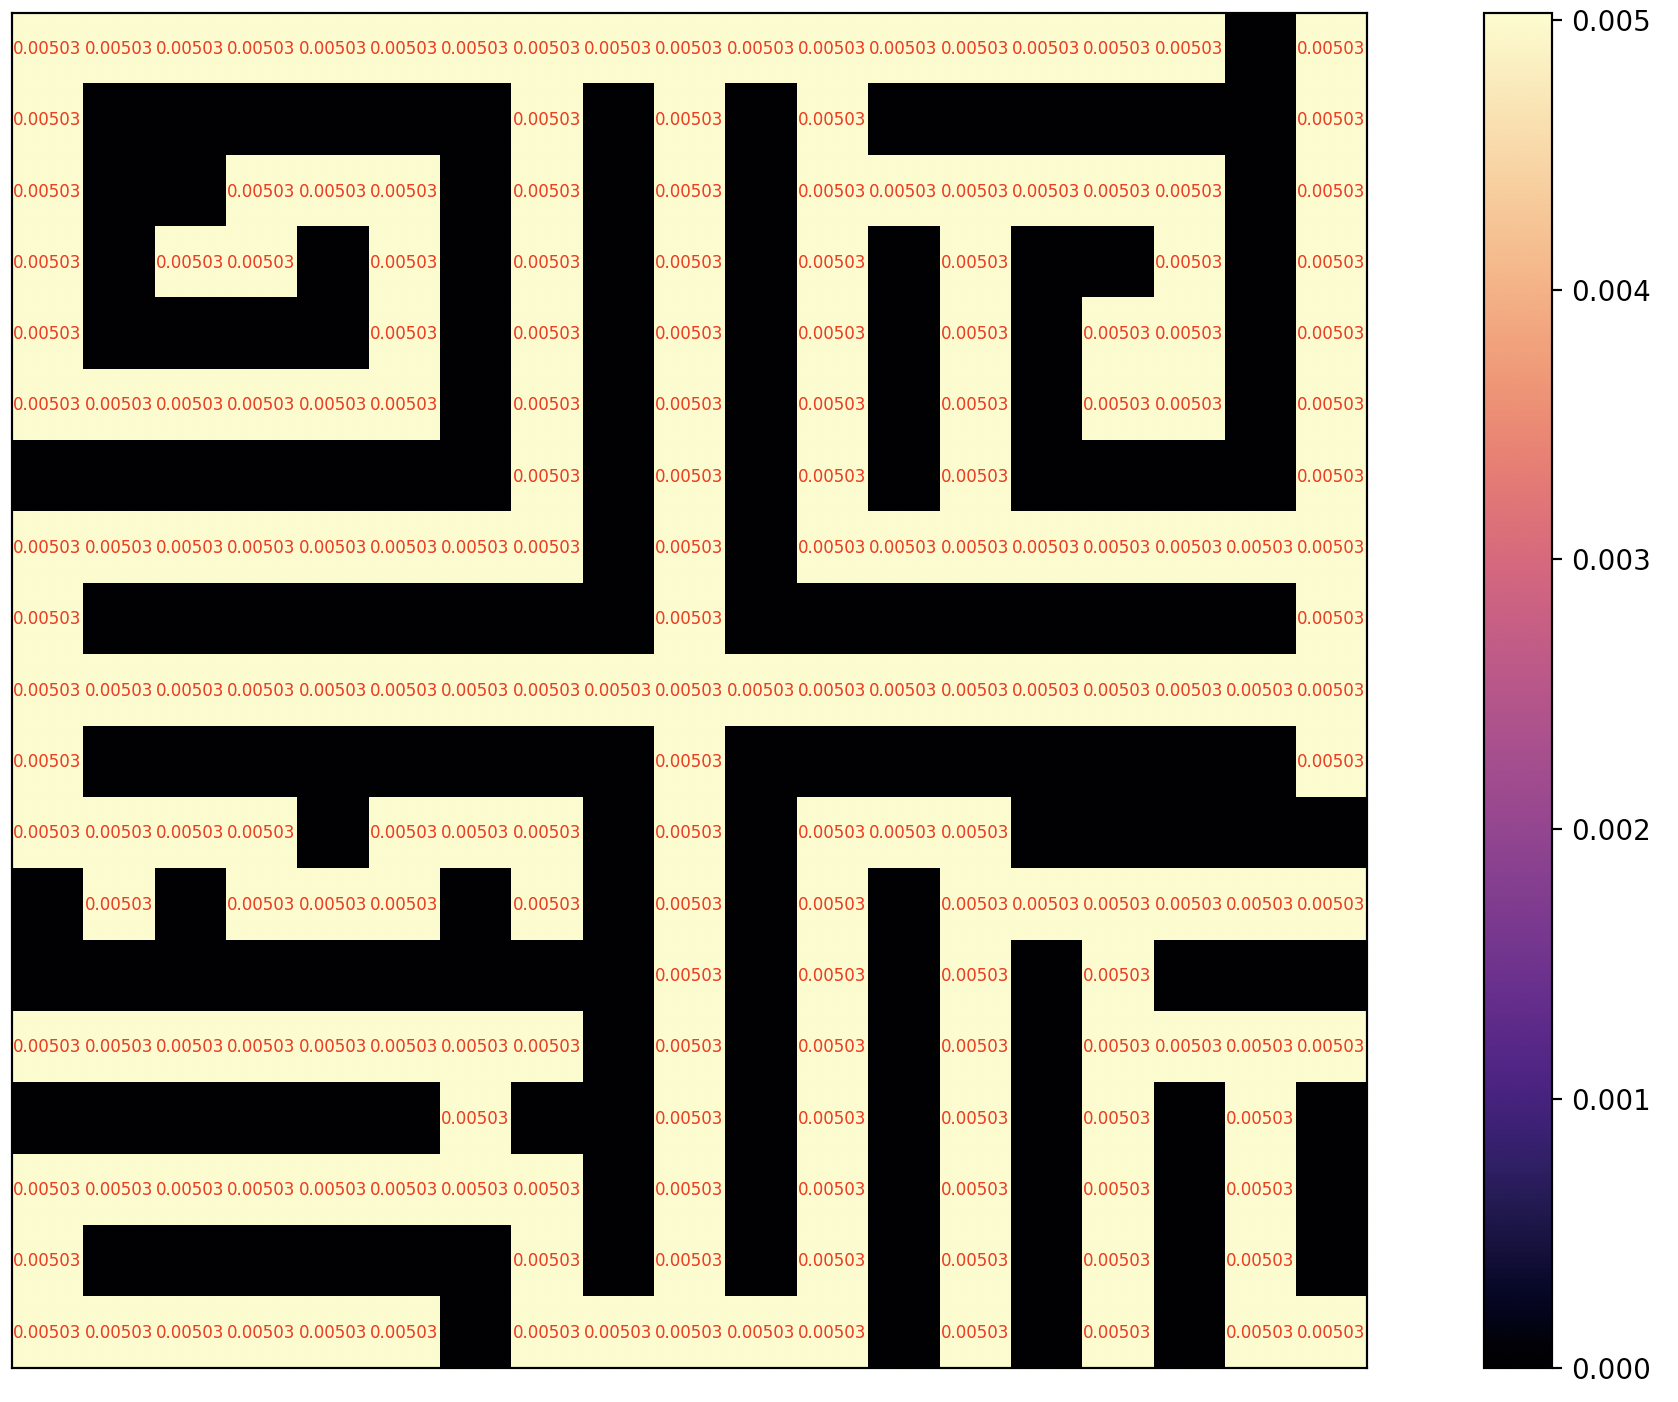
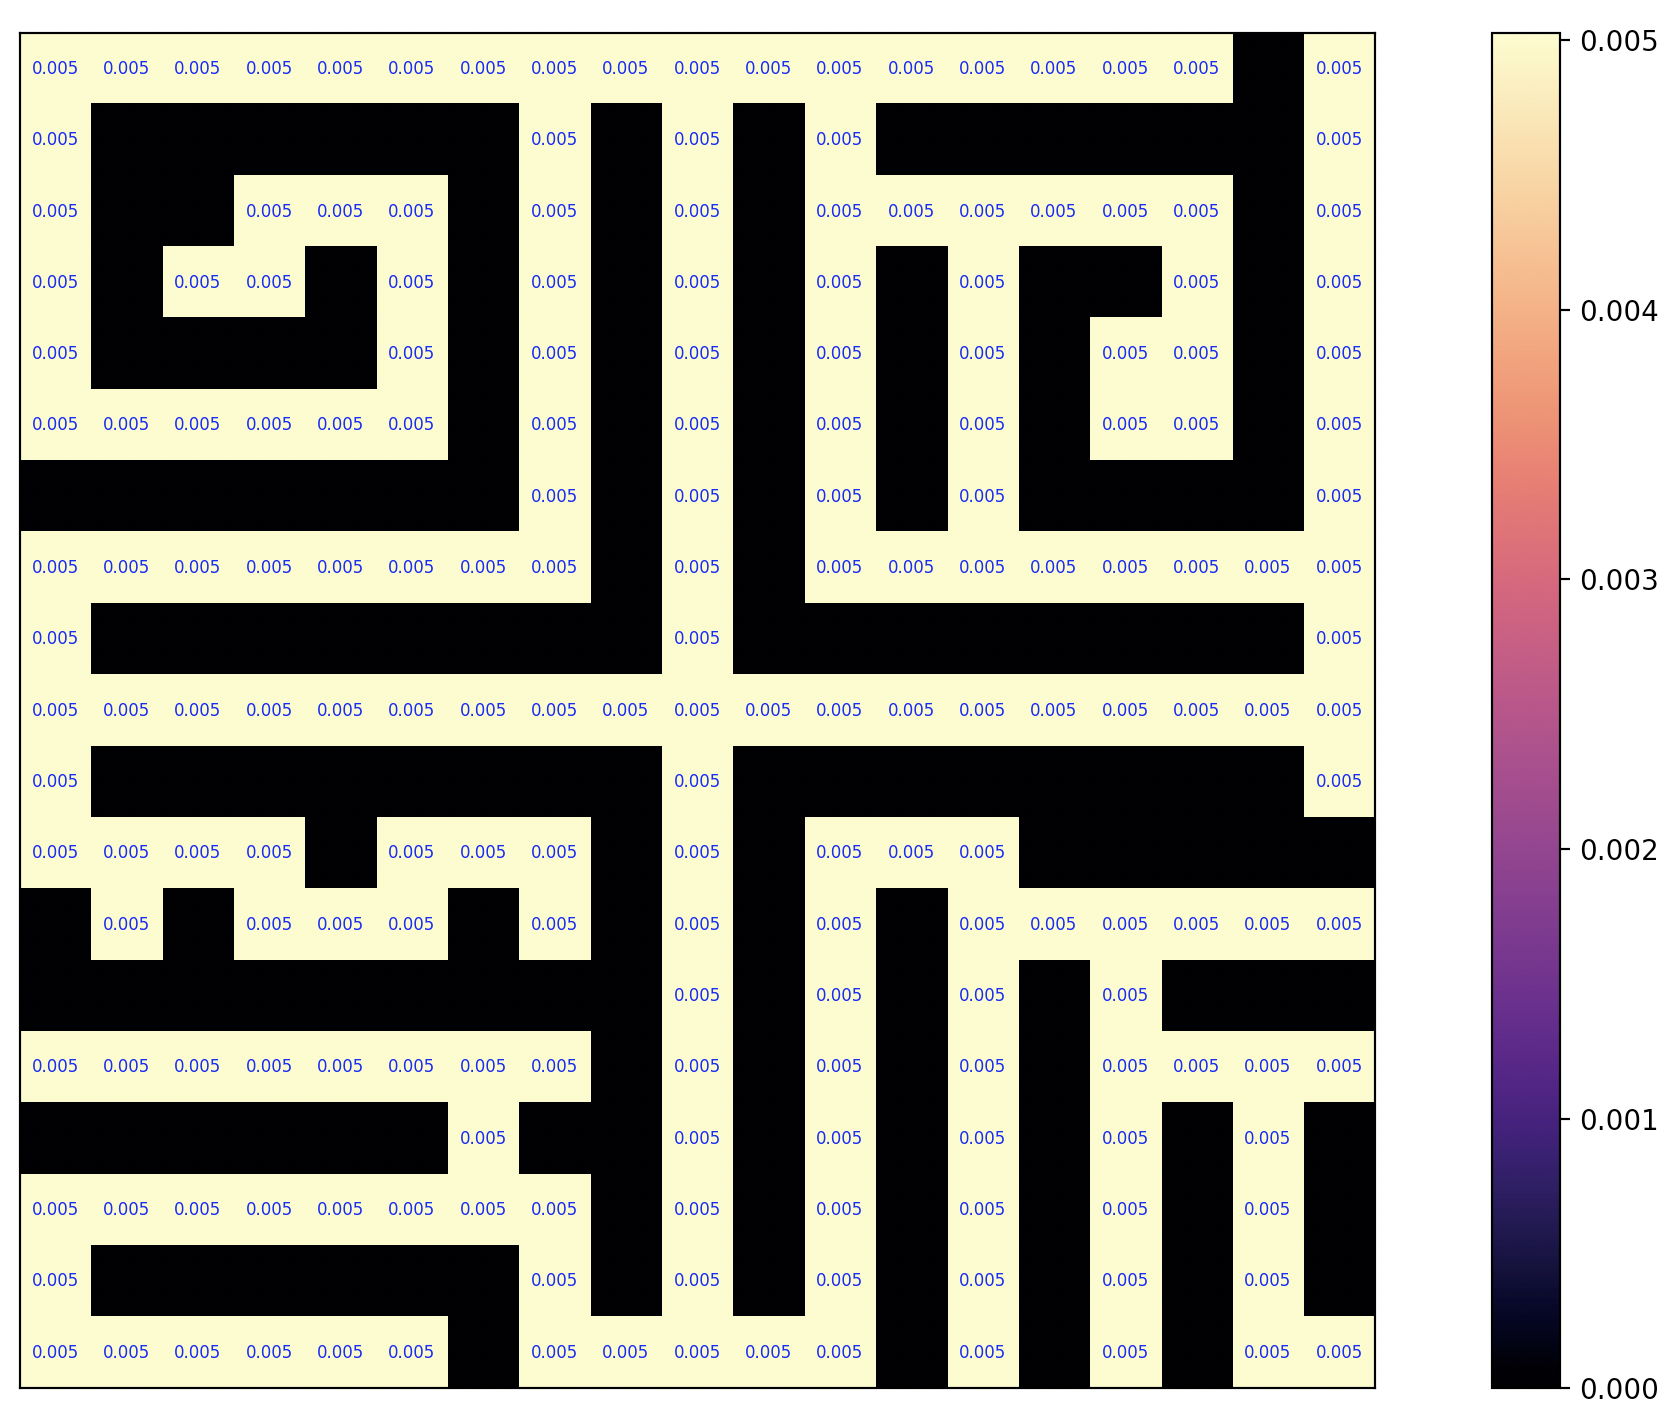
created agent class

Changed region(s): [[0.0, 0.0, 0.8377, 0.9815], [0.8687, 0.0, 0.9928, 1.0]]

diff --git a/agent.py b/agent.py
@@ -1,0 +1,92 @@
+import numpy as np 
+import matplotlib.pyplot as plt 
+
+class Agent():
+    def __init__(self, path ="reactors/Thor23-SA74-VERW-Schematic (Classified).txt"):
+
+        # this stores the path of the nuclear reactor 
+        self.path = path
+
+        # this represents the nuclear reactor as a 2D matrix
+        self.reactor = self.init_nuclear_reactor_config()
+
+        # this represents probability of being at a cell as a matrix
+        self.probabilities = self.init_probability_matrix()
+
+        # this will generate a visualization of the initial state of the board
+        self.visualize_nuclear_reactor()
+
+    def init_nuclear_reactor_config(self):
+        """
+        generates a 2D numpy matrix that represents the relevant configuration of a nuclear reactor. 
+
+        @param path : the file path of the nuclear reactor configuration
+        @returns reactor : 2D numpy matrix with the configuration of the reactor {"_" -> 0, "X" -> 1}
+        """
+
+        # reads in the file as a list of strings
+        with open(self.path, "r") as f:
+            lines = f.readlines() 
+        
+        # remove leading/trailing white spaces in the text file
+        lines = [list(line.strip()) for line in lines]
+
+        # {"_" -> 0, "X" -> 1} conversion for the numpy matrix 
+        lines = [[1 if x == "X" else 0 for x in line] for line in lines]
+
+        # convert the list of lists to a 2D numpy array 
+        reactor = np.array(lines)
+
+        # return a 2D numpy array of the nuclear reactor configuration
+        return reactor 
+    
+    def init_probability_matrix(self):
+        """
+        generates initial transition matrix for where the drone can be as 1 / [# of white cells (aka reactor with 0)] in each location of matrix
+
+        @param reactor : represents the configuration of the nuclear reactor {0->unblocked cell, 1 ->blocked cell}
+        @returns transition_matrix : represents the probability of drone being at cell (i,j). 
+        """
+
+        # count the number of white cells in the nuclear reactor
+        num_white_cells = (self.reactor == 0).sum()
+
+        print(f"The number of white cells are {num_white_cells}.")
+
+        # initial probability matrix of same shape as reactor with all being equally likely
+        probabilities = np.ones(self.reactor.shape) * (1 / num_white_cells)
+
+        # set the probability of black cells in reactor to 0
+        probabilities[self.reactor == 1] = 0 
+
+        # return the probability matrix
+        return probabilities 
+    
+    def visualize_nuclear_reactor(self):
+        """
+        generates a visualization of the nuclear reactor configuration along with probs of being at a cell. 0 -> white, 1 -> black
+        
+        @param reactor : represents the configuration of the nuclear reactor
+        """
+        # set the colormap and color limits 
+        plt.imshow(self.probabilities, cmap='magma', vmin=self.probabilities.min(), vmax=self.probabilities.max())
+
+        # show the color bar
+        plt.colorbar()
+
+        # removes the tick marks and labels
+        plt.gca().tick_params(which="both", length=0)
+        plt.gca().set_xticklabels([])
+        plt.gca().set_yticklabels([])
+
+        # sets the tick labels at center of each cell to be the values in each cell
+        for i in range(self.reactor.shape[0]):
+            for j in range(self.reactor.shape[1]):
+                if self.reactor[i,j] != 1:
+                    plt.text(j, i, round(self.probabilities[i,j], 3), ha="center", va="center", color="blue", fontsize=6)
+
+        # visualizes the nuclear reactor
+        plt.show()
+
+if __name__ == "__main__":
+    agent = Agent(path="reactors/toyexample.txt") 

diff --git a/drone.py b/drone.py
@@ -25,7 +25,7 @@ def init_nuclear_reactor_config(path = "reactors/Thor23-SA74-VERW-Schematic (Cla
     # return a 2D numpy array of the nuclear reactor configuration
     return reactor 
 
-def init_transition_matrix(reactor):
+def init_probability_matrix(reactor):
     """
     generates initial transition matrix for where the drone can be as 1 / [# of white cells (aka reactor with 0)] in each location of matrix
 
@@ -47,13 +47,14 @@ def init_transition_matrix(reactor):
     # return the probability matrix
     return transition_matrix 
 
-def visualize_nuclear_reactor(reactor, transition_matrix):
+def visualize_nuclear_reactor(reactor, probabilities):
     """
     generates a visualization of the nuclear reactor configuration along with probs of being at a cell. 0 -> white, 1 -> black
+    
     @param reactor : represents the configuration of the nuclear reactor
     """
     # set the colormap and color limits 
-    plt.imshow(transition_matrix, cmap='magma', vmin=transition_matrix.min(), vmax=transition_matrix.max())
+    plt.imshow(probabilities, cmap='magma', vmin=probabilities.min(), vmax=probabilities.max())
 
     # show the color bar
     plt.colorbar()
@@ -67,16 +68,20 @@ def visualize_nuclear_reactor(reactor, transition_matrix):
     for i in range(reactor.shape[0]):
         for j in range(reactor.shape[1]):
             if reactor[i,j] != 1:
-                plt.text(j, i, round(transition_matrix[i,j], 3), ha="center", va="center", color="blue", fontsize=6)
+                plt.text(j, i, round(probabilities[i,j], 3), ha="center", va="center", color="blue", fontsize=6)
 
     # visualizes the nuclear reactor
     plt.show()
 
+def move_down(reactor, probabilities):
+    
+
+
 if __name__ == "__main__":
 
     # initialize nuclear reactor and transition matrix
-    reactor = init_nuclear_reactor_config()
-    transitions = init_transition_matrix(reactor)
+    reactor = init_nuclear_reactor_config(path="reactors/toy.txt")
+    probabilities = init_probability_matrix(reactor)
 
     # generate heatmap of probability transition matrix
-    visualize_nuclear_reactor(reactor, transitions)
+    visualize_nuclear_reactor(reactor, probabilities)
